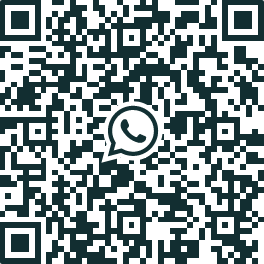
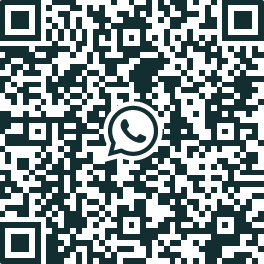
whatsapp connected!!!!!

diff --git a/sample/remote.py b/sample/remote.py
@@ -7,10 +7,10 @@ from webwhatsapi import WhatsAPIDriver
 
 print("Environment", os.environ)
 try:
-    os.environ["SELENIUM"]
+	os.environ["SELENIUM"]
 except KeyError:
-    print("Please set the environment variable SELENIUM to Selenium URL")
-    sys.exit(1)
+	print("Please set the environment variable SELENIUM to Selenium URL")
+	sys.exit(1)
 
 from PIL import Image
 
@@ -20,20 +20,31 @@ from resizeimage import resizeimage
 ##Create the directory "/firefox_cache", it's on .gitignore
 ##The "app" directory is internal to docker, it corresponds to the root of the project.
 ##The profile parameter requires a directory not a file.
+
+from pyzbar.pyzbar import decode
+print(")(AFYN)(ANY*FU(A*UKFA(E*FU*****************************)))")
+print(")(AFYN)(ANY*FU(A*UKFA(E*FU*****************************)))")
+print(")(AFYN)(ANY*FU(A*UKFA(E*FU*****************************)))")
+print(")(AFYN)(ANY*FU(A*UKFA(E*FU*****************************)))")
+
+
 profiledir = os.path.join(".", "firefox_cache")
 if not os.path.exists(profiledir):
-    os.makedirs(profiledir)
+	os.makedirs(profiledir)
 
 driver = WhatsAPIDriver(
-    profile=profiledir, client="remote", command_executor=os.environ["SELENIUM"]
+	profile=profiledir, client="remote", command_executor=os.environ["SELENIUM"]
 )
+
+import timg
+from ascii import *
+obj = timg.Renderer()
 
 print("Waiting for QR")
 driver.wait_for_login()
 print("Saving session")
 
-import timg
-obj = timg.Renderer()
+
 # from qrtools import qrtools
 # from PIL import Image
 # import zbarlight
@@ -41,7 +52,6 @@ obj = timg.Renderer()
 
 #
 # from PIL import Image
-# from pyzbar.pyzbar import decode
 
 # import os
 # import numpy as np
@@ -73,86 +83,107 @@ obj = timg.Renderer()
 
 print("AAA")
 c = 0
-s = 140
-while c<30:
-    c+=1
-    print("BBBB")
-    # print("Checking qr, status", driver.get_status())
+s = 60
+while c==0 or driver.get_status() is not "LoggedIn":
+	c+=1
+	print("BBBB")
+	# print("Checking qr, status", driver.get_status())
 
-    img = driver.get_qr()
-    # output = qr_scanner.extract(img)
-    # print(output,"!!!!!!!!!!!!!!!!WDIOUSICNOIUCJ)(Z*UCINJ)(ZP*DFJYUF)((P*SUD)(UASIDMUJ))")
-    # print(qr.decode(img))
-    # print(qr.data)
+	img = driver.get_qr("newQR.png")
+	# from PIL import Image
+	decoded = decode(Image.open('newQR.png'))
+	# print(decoded, "#######################")
+	# print(decoded, "#######################")
+	# print(decoded, "#######################")
+	# print(decoded, "#######################")
+	# print(decoded, "#######################")
+	# print(decoded, "#######################")
+	# print(decoded, "#######################")
 
-    # print("BBBB2")
-    # with open(img, 'r+b') as f:
-    #     with Image.open(f) as image:
-    #         cover = resizeimage.resize_cover(image, [57, 57])
-    #         cover.save(img, image.format)
-    # #
-    # qr.decode(img)
-    # print (qr.data)
-    # print(retval,"!!!!!!!!!!!!!!!!!!!")
-    #
-    print("CCC",img)
-    obj.load_image_from_file(img)
+	for barcode in decoded:
+		print("@@@@@@@@@@@@@@@@@@@")
+				# the barcode data is a bytes object so if we want to draw it
+		# on our output image we need to convert it to a string first
+		barcodeData = barcode.data.decode("utf-8")
+		barcodeType = barcode.type
+		# draw the barcode data and barcode type on the image
+		text = "{} ({})".format(barcodeData, barcodeType)
+		print(text)
+		print("@@@@@@@@@@@@@@@@@@@")
+		printQR(barcodeData)
+	# output = qr_scanner.extract(img)
+	# print(output,"!!!!!!!!!!!!!!!!WDIOUSICNOIUCJ)(Z*UCINJ)(ZP*DFJYUF)((P*SUD)(UASIDMUJ))")
+	# print(qr.decode(img))
+	# print(qr.data)
 
-    obj.resize(s,s)
-    s-=1
-    # print(obj)
-    obj.render(timg.Ansi24HblockMethod)
-    print("DDD",s,s,s,s)
-    time.sleep(10)
-    # driver.save_firefox_profile(remove_old=False)
-    # time.sleep(3)
-    # try:
-    #     driver.reload_qr()
-    # except:
-    #     print("refresh finised")
+	# print("BBBB2")
+	# with open(img, 'r+b') as f:
+	#     with Image.open(f) as image:
+	#         cover = resizeimage.resize_cover(image, [57, 57])
+	#         cover.save(img, image.format)
+	# #
+	# qr.decode(img)
+	# print (qr.data)
+	# print(retval,"!!!!!!!!!!!!!!!!!!!")
+	#
+	# print("CCC",img)
+	# obj.load_image_from_file(img)
+
+	# obj.resize(s,s)
+	# s-=1
+	# print(obj)
+	# obj.render(timg.Ansi24HblockMethod)
+	# print("DDD",s,s,s,s)
+	# time.sleep(10)
+	# driver.save_firefox_profile(remove_old=False)
+	# time.sleep(3)
+	# try:
+	#     driver.reload_qr()
+	# except:
+	#     print("refresh finised")
 print("Bot started")
 
 while True:
-    time.sleep(.71)
-    print("Checking for more messages, status", driver.get_status())
-    for contact in driver.get_unread():
-        for message in contact.messages:
-            print(json.dumps(message.get_js_obj(), indent=4))
-            sender = message.get_js_obj()["chat"]["contact"]["formattedName"]
+	time.sleep(.71)
+	print("Checking for more messages, status", driver.get_status())
+	for contact in driver.get_unread():
+		for message in contact.messages:
+			print(json.dumps(message.get_js_obj(), indent=4))
+			sender = message.get_js_obj()["chat"]["contact"]["formattedName"]
 
-            for contact in driver.get_contacts():
-                print("CCCC",contact.get_safe_name() )
-                if  sender in contact.get_safe_name():
-                    chat = contact.get_chat()
-                    chat.send_message("Hi "+sender+" !!!")
+			for contact in driver.get_contacts():
+				# print("CCCC",contact.get_safe_name() )
+				if  sender in contact.get_safe_name():
+					chat = contact.get_chat()
+					chat.send_message("Hi "+sender+" !!!")
 
 
-            print()
-            print()
-            print(sender)
-            print()
-            print()
-            print("class", message.__class__.__name__)
-            print("message", message)
-            print("id", message.id)
-            print("type", message.type)
-            print("timestamp", message.timestamp)
-            print("chat_id", message.chat_id)
-            print("sender", message.sender)
-            print("sender.id", message.sender.id)
-            print("sender.safe_name", message.sender.get_safe_name())
-            if message.type == "chat":
-                print("-- Chat")
-                print("safe_content", message.safe_content)
-                print("content", message.content)
-                # contact.chat.send_message(message.safe_content)
-            elif message.type == "image" or message.type == "video":
-                print("-- Image or Video")
-                print("filename", message.filename)
-                print("size", message.size)
-                print("mime", message.mime)
-                print("caption", message.caption)
-                print("client_url", message.client_url)
-                message.save_media("./")
-            else:
-                print("-- Other")
+			print()
+			print()
+			print(sender)
+			print()
+			print()
+			print("class", message.__class__.__name__)
+			print("message", message)
+			print("id", message.id)
+			print("type", message.type)
+			print("timestamp", message.timestamp)
+			print("chat_id", message.chat_id)
+			print("sender", message.sender)
+			print("sender.id", message.sender.id)
+			print("sender.safe_name", message.sender.get_safe_name())
+			if message.type == "chat":
+				print("-- Chat")
+				print("safe_content", message.safe_content)
+				print("content", message.content)
+				# contact.chat.send_message(message.safe_content)
+			elif message.type == "image" or message.type == "video":
+				print("-- Image or Video")
+				print("filename", message.filename)
+				print("size", message.size)
+				print("mime", message.mime)
+				print("caption", message.caption)
+				print("client_url", message.client_url)
+				message.save_media("./")
+			else:
+				print("-- Other")

diff --git a/sample/ascii.py b/sample/ascii.py
@@ -4,6 +4,8 @@ import argparse
 import requests
 from requests.exceptions import HTTPError
 from bs4 import BeautifulSoup
+from termcolor import colored
+
 
 def printQR(input):
 
@@ -87,4 +89,12 @@ def printQR(input):
             F = open(ARGS.out, 'wb')
             F.write(CODE)
         else:
-            print(CODE.decode(CP).replace("\n","█████████████\n"))
+            CRED = '\033[0m'
+            CEND = '\033[107m'
+            print(CRED + "" + CEND)
+            print("")
+            print("")
+            # print(" ",colored(CODE.decode(CP),'white'))
+            print("  "+CODE.decode(CP))
+            print("")
+            print("")

diff --git a/setup.py b/setup.py
@@ -100,7 +100,7 @@ setup(
         "cryptography",
         "python-magic",
 	       "timg",
-           "scikit-image"
+           "scikit-image", "pyzbar", "termcolor"
     ],
     extras_require={},
 )

diff --git a/DockerInstructions.md b/DockerInstructions.md
@@ -1,0 +1,15 @@
+<!-- DockerInstructions.md -->
+
+docker container prune
+
+# 1. Create network
+docker network create selenium
+
+# 2. Run Selenium grid/standalone container
+docker run -d -p 4444:4444 -p 5900:5900 --name firefox --network selenium -v /dev/shm:/dev/shm selenium/standalone-firefox-debug:3.14.0-curium
+
+# 3. Build python/webwhatsapi docker base image
+docker build -t webwhatsapi .
+
+# 4. Run client container
+docker run --network selenium -it -e SELENIUM='http://firefox:4444/wd/hub' -v $(pwd):/app  webwhatsapi /bin/bash -c "pip install ./;pip list;python sample/remote.py"
